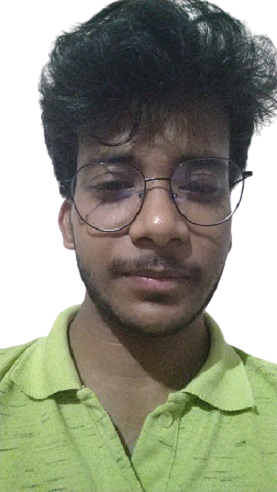
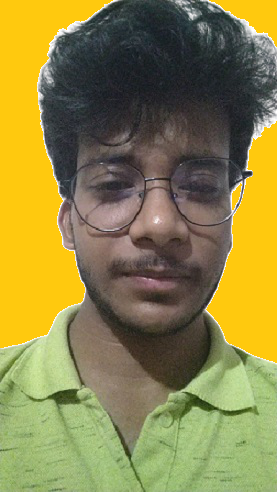
paani is added

Changed region(s): [[0.0, 0.0, 0.4043, 0.7317], [0.7509, 0.2439, 1.0, 0.7622], [0.7509, 0.0, 1.0, 0.0915]]

diff --git a/index.html b/index.html
@@ -1,5 +1,5 @@
 <!DOCTYPE html>
-<!-- Anurag Jaana lodu to h -->
+<!-- jiski image h lodu to h -->
 <html><head><meta http-equiv="Content-Type" content="text/html; charset=UTF-8">
 	
 	
@@ -17,6 +17,7 @@
 <!-- background of lodu -->
 <body onload="init(&#39;myCanvas&#39;, Piece, Config);" style="background-color: rgb(255, 204, 0);">
 	<!-- css div id of lodu -->
+	<h1 >click image to see changes.</h1>
 	<canvas id="myCanvas" style="position: absolute; z-index: 2; left: 0px; top: 0px; width: 1366px; height: 600px;" resize="true" width="1366" height="600"></canvas>
 	<div id="output" style="color:white;z-index:1; position:absolute;left:0;top:0px;font-size:10px;display:none;">setSize, 1366, 600, 1</div>
 

diff --git a/javascripts/Config.js b/javascripts/Config.js
@@ -8,8 +8,10 @@ Config.backgroundColor = '#FC0';
 //piece:
 Config.originalSize = { width: 400, height: 425 };
 
-Config.image.src = "nitush.png";
-Config.image.transform = [53.5, 30, 0.9473, 0.9473];
-
-Config.sound.click = "sounds/glassbreaking";
-Config.sound.loop = "sounds/loop";
+// nitish babu
+//Config.image.src = "nitush.png";
+//Config.image.transform = [53.5, 30, 0.9473, 0.9473];
+                            // rightleft,updown ,  , vertical length    
+//paani
+Config.image.src = "pp-removebg-preview.png";
+Config.image.transform = [-145, -177, 1.2, 1.4];
